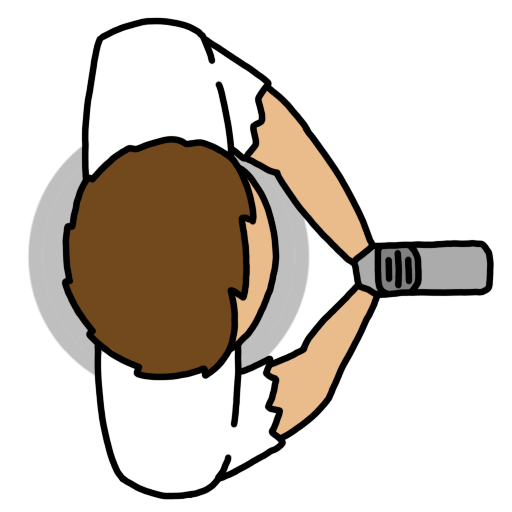
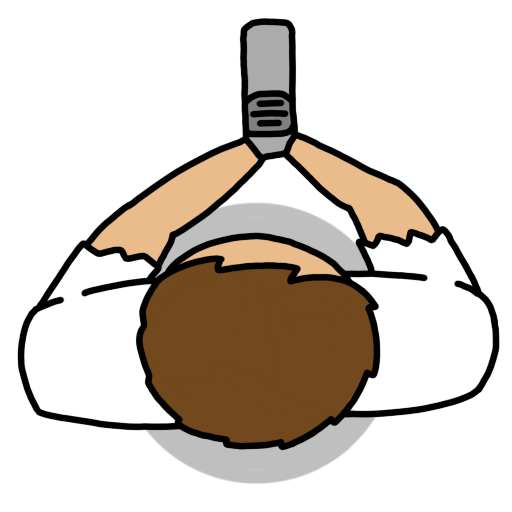
hij draait!!

diff --git a/src/js/mainCharacter.js b/src/js/mainCharacter.js
@@ -53,26 +53,26 @@ export class mainCharacter extends Actor {
 
   moveRight() {
     this.vel.x = this.speed;
-    this.rotation = 0; 
+     
   }
 
   moveLeft() {
     this.vel.x = -this.speed;
-    this.rotation = Math.PI;
+    
   }
 
   moveUp() { 
    if (this.isMovingRight) {
     this.vel.x = this.speed/1.5;
     this.vel.y = -this.speed/1.5;
-    this.rotation = -Math.PI / 4;
+    
   } else if (this.isMovingLeft) {
     this.vel.x = -this.speed/1.5;
     this.vel.y = -this.speed/1.5;
-    this.rotation = -Math.PI * 3 / 4;
+    
   } else {
     this.vel.y = -this.speed;
-    this.rotation = -Math.PI / 2;
+    
   }
 }
 
@@ -80,14 +80,14 @@ export class mainCharacter extends Actor {
     if (this.isMovingRight) {
         this.vel.x = this.speed/1.5;
         this.vel.y = this.speed/1.5;
-        this.rotation = Math.PI / 4;
+        
       } else if (this.isMovingLeft) {
         this.vel.x = -this.speed/1.5;
         this.vel.y = this.speed/1.5;
-        this.rotation = Math.PI * 3 / 4;
+       
       } else {
         this.vel.y = this.speed;
-        this.rotation = Math.PI / 2;
+       
       }
   }
 
@@ -163,6 +163,14 @@ export class mainCharacter extends Actor {
 
     if (this.isMovingDown && engine.input.keyboard.isHeld(Input.Keys.S)) {
       this.moveDown();
+    }
+
+    const mouseX = engine.input.pointers.primary.lastWorldPos.x;
+    const mouseY = engine.input.pointers.primary.lastWorldPos.y;
+    const direction = new Vector(mouseX, mouseY).sub(this.pos);
+
+    if (direction.distance() > 0) {
+      this.rotation = direction.toAngle() + Math.PI / 2;
     }
 
   }
